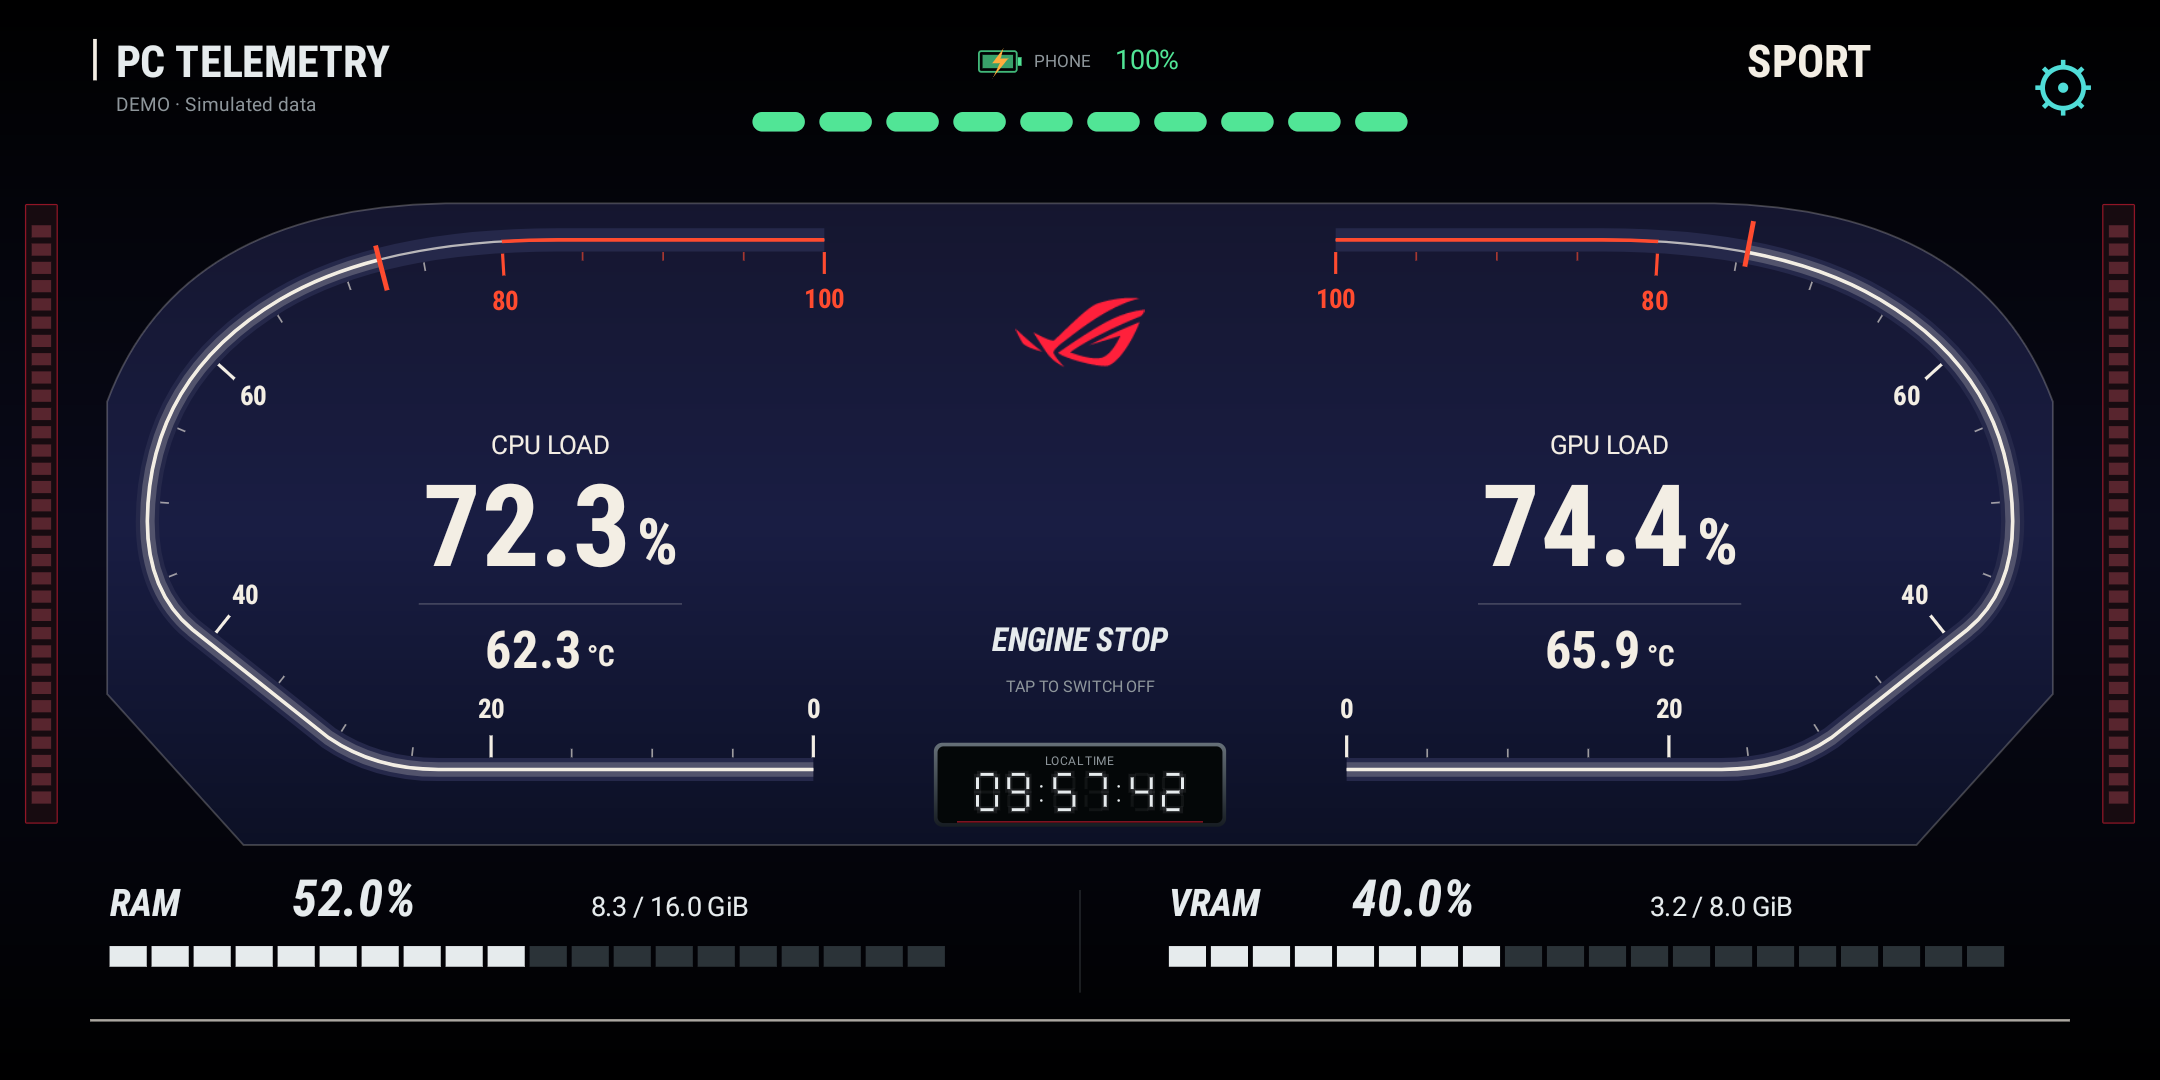
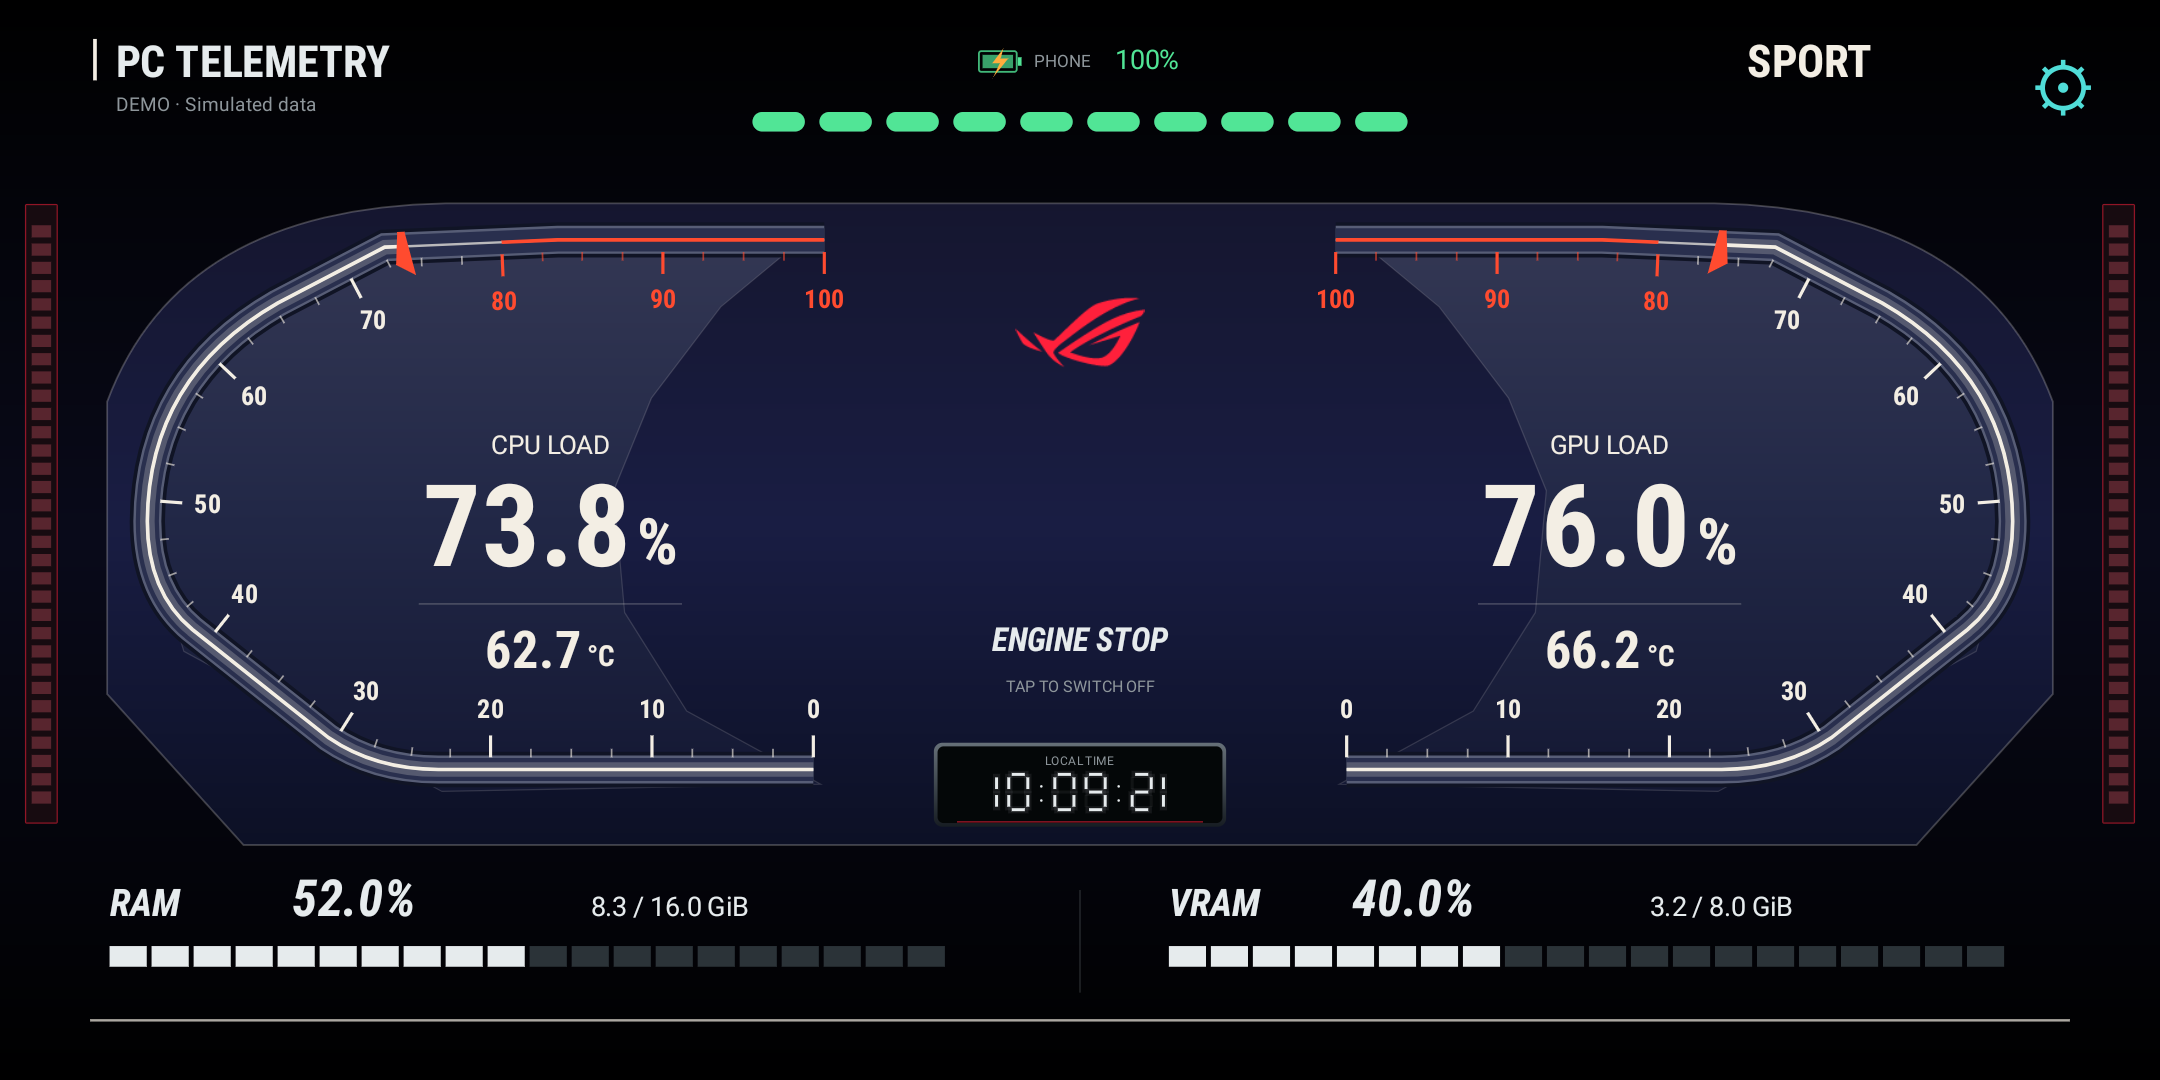
Refine STO and G82 inspired SPORT scales

diff --git a/android/app/src/main/kotlin/com/pctelemetry/dashboard/SportPresets.kt b/android/app/src/main/kotlin/com/pctelemetry/dashboard/SportPresets.kt
@@ -10,6 +10,7 @@ import androidx.compose.ui.geometry.Size
 import androidx.compose.ui.graphics.*
 import androidx.compose.ui.graphics.drawscope.DrawScope
 import androidx.compose.ui.graphics.drawscope.Stroke
+import androidx.compose.ui.graphics.drawscope.clipPath
 import androidx.compose.ui.res.painterResource
 import kotlin.math.cos
 import kotlin.math.sin
@@ -84,25 +85,43 @@ private fun DrawScope.apexArc(inset: Float, start: Float, sweep: Float, color: C
 }
 
 private fun DrawScope.apexBackdrop(paint: Paint, detail: Paint, cpu: SportReadingPosition, gpu: SportReadingPosition) {
-    apexArc(-15f, ApexStart, ApexSweep, StoWhite.copy(alpha = .44f), 1.4f)
-    apexArc(17f, ApexStart, ApexSweep, StoWhite.copy(alpha = .70f), 1.8f)
-    apexArc(17f, ApexStart + ApexSweep * .8f, ApexSweep * .2f, StoRed, 2.4f)
-    for (index in 0 until 60) {
-        val start = ApexStart + index * ApexSweep / 60f
-        val redZone = index >= 48
-        apexArc(0f, start, ApexSweep / 60f - .32f,
-            if (redZone) Color(0xFF44110E) else Color(0xFF1C1C22), 23f)
+    val hood = linePath(listOf(Offset(87f, 523f), Offset(140f, 383f), Offset(324f, 245f),
+        Offset(555f, 181f), Offset(1219f, 181f), Offset(1450f, 245f), Offset(1634f, 383f),
+        Offset(1687f, 523f), Offset(1640f, 701f), Offset(134f, 701f)), closed = true)
+    drawPath(hood, Brush.verticalGradient(listOf(Color(0xFF17191F), Color.Black, Color(0xFF101217)), 181f, 701f))
+    drawPath(hood, Color(0xFF282C33), style = Stroke(2f))
+    apexArc(6f, ApexStart, ApexSweep, Color(0xFF111318), 46f)
+    apexArc(6f, ApexStart + ApexSweep * .8f, ApexSweep * .2f, Color(0xFF250B0A), 46f)
+    apexArc(-18f, ApexStart, ApexSweep, StoWhite.copy(alpha = .50f), 1.5f)
+    // The inner keyline drops under each major numeral, separate from the outer scale ticks.
+    val innerEdge = (0..100).map { index ->
+        val distanceToTick = minOf(index % 10, 10 - index % 10)
+        val notch = when (distanceToTick) { 0, 1 -> 10f; 2 -> 4f; else -> 0f }
+        apexPoint(ApexStart + ApexSweep * index / 100f, 40f + notch)
+    }
+    drawPath(linePath(innerEdge), StoWhite.copy(alpha = .77f), style = Stroke(1.7f))
+    drawPath(linePath(innerEdge.drop(80)), StoRed, style = Stroke(1.9f))
+    for (row in 0..6) for (index in 1..179) {
+        val fraction = (index + (row % 2) * .5f) / 180f
+        val color = if (fraction >= .8f) StoRed else StoWhite
+        drawCircle(color.copy(alpha = if (fraction >= .8f) .32f else .18f),
+            1.05f, apexPoint(ApexStart + ApexSweep * fraction, -9f + row * 5.5f))
     }
     for (tick in 0..50) {
         val angle = ApexStart + tick * ApexSweep / 50
         val major = tick % 5 == 0
         val color = if (tick >= 40) StoRed else StoWhite
         drawLine(color.copy(alpha = if (major) 1f else .58f),
-            apexPoint(angle, -16f), apexPoint(angle, if (major) -5f else -10f),
+            apexPoint(angle, -20f), apexPoint(angle, if (major) -9f else -15f),
             if (major) 2.8f else 1.2f, cap = StrokeCap.Butt)
         if (major) {
-            val p = apexPoint(angle, 55f)
+            val p = apexPoint(angle, 32f)
+            drawPath(linePath(listOf(p + Offset(-21f, -14f), p + Offset(21f, -14f),
+                p + Offset(24f, 12f), p + Offset(-24f, 12f)), closed = true), Color(0xFF08090C))
+            paint.style = Paint.Style.STROKE
+            paint.strokeWidth = 1.25f
             label(paint, (tick * 2).toString(), p.x, p.y + 8f, 26f, color, true)
+            paint.style = Paint.Style.FILL
         }
     }
     val lowerBand = linePath(listOf(Offset(108f, 697f), Offset(252f, 661f), Offset(688f, 661f),
@@ -115,9 +134,10 @@ private fun DrawScope.apexBackdrop(paint: Paint, detail: Paint, cpu: SportReadin
     label(detail, "GPU TEMP", gpu.temperatureX, 560f, 18f, StoWhite, true)
 }
 
-private fun linePath(points: List<Offset>) = Path().apply {
+private fun linePath(points: List<Offset>, closed: Boolean = false) = Path().apply {
     moveTo(points.first().x, points.first().y)
     points.drop(1).forEach { lineTo(it.x, it.y) }
+    if (closed) close()
 }
 
 private fun wingPath(mirror: Boolean): Path {
@@ -128,8 +148,9 @@ private fun wingPath(mirror: Boolean): Path {
         quadraticTo(x(308f), 632f, x(270f), 606f)
         lineTo(x(158f), 517f)
         quadraticTo(x(121f), 486f, x(121f), 428f)
-        quadraticTo(x(122f), 310f, x(230f), 246f)
-        quadraticTo(x(313f), 197f, x(458f), 197f)
+        quadraticTo(x(122f), 310f, x(228f), 249f)
+        lineTo(x(316f), 203f)
+        lineTo(x(458f), 197f)
         lineTo(x(677f), 197f)
     }
 }
@@ -145,6 +166,16 @@ private fun DrawScope.wingBackdrop(paint: Paint, detail: Paint, cpu: SportReadin
     }
     drawPath(outer, Brush.verticalGradient(listOf(Color(0xFF15162F), Color(0xFF191D43), Color(0xFF0C1025)), 167f, 694f))
     drawPath(outer, WingWhite.copy(alpha = .24f), style = Stroke(1.5f, join = StrokeJoin.Miter))
+    for (mirror in listOf(false, true)) {
+        fun edge(x: Float, y: Float) = Offset(if (mirror) WIDTH - x else x, y)
+        val facet = linePath(listOf(edge(114f, 412f), edge(184f, 279f), edge(318f, 198f),
+            edge(673f, 185f), edge(592f, 252f), edge(535f, 327f), edge(504f, 403f),
+            edge(513f, 503f), edge(564f, 584f), edge(674f, 644f), edge(363f, 650f), edge(151f, 535f)), closed = true)
+        clipPath(outer) {
+            drawPath(facet, Brush.verticalGradient(listOf(Color(0xFF343854), Color(0xFF222847), Color(0xFF141833)), 185f, 650f))
+            drawPath(facet, WingWhite.copy(alpha = .15f), style = Stroke(1f))
+        }
+    }
     wingScale(paint, LeftWing, false)
     wingScale(paint, RightWing, true)
     label(detail, "CPU LOAD", cpu.x, 373f, 21f, WingWhite, true)
@@ -155,22 +186,24 @@ private fun DrawScope.wingBackdrop(paint: Paint, detail: Paint, cpu: SportReadin
 }
 
 private fun DrawScope.wingScale(paint: Paint, measure: PathMeasure, mirror: Boolean) {
-    drawMeasuredWing(measure, 0f, 100f, Color(0xFF25284A), 19f)
+    drawMeasuredWing(measure, 0f, 100f, Color(0xFF101425), 29f)
+    drawMeasuredWing(measure, 0f, 100f, Color(0xFF575D76), 23f)
+    drawMeasuredWing(measure, 0f, 100f, Color(0xFF292F4E), 19f)
     drawMeasuredWing(measure, 0f, 100f, WingWhite.copy(alpha = .72f), 2f)
     drawMeasuredWing(measure, 80f, 100f, WingRed, 3f)
-    for (tick in 0..20) {
-        val fraction = tick / 20f
+    for (tick in 0..40) {
+        val fraction = tick / 40f
         val distance = measure.length * fraction
         val pos = measure.getPosition(distance)
         val tangent = measure.getTangent(distance)
         val inward = if (mirror) Offset(tangent.y, -tangent.x) else Offset(-tangent.y, tangent.x)
         val major = tick % 4 == 0
-        val color = if (tick >= 16) WingRed else WingWhite
+        val color = if (tick >= 32) WingRed else WingWhite
         drawLine(color.copy(alpha = if (major) 1f else .62f), pos + inward * 10f,
             pos + inward * (if (major) 28f else 17f), if (major) 2.6f else 1.4f, cap = StrokeCap.Butt)
         if (major) {
             val marker = pos + inward * 49f
-            label(paint, (tick * 5).toString(), marker.x, marker.y + 7f, 22f, color, true)
+            label(paint, (tick * 5 / 2).toString(), marker.x, marker.y + 7f, 21f, color, true)
         }
     }
 }
@@ -186,15 +219,13 @@ internal fun DrawScope.sportPresetLoad(preset: SportPreset, cpu: Float?, gpu: Fl
     if (preset == SportPreset.APEX) {
         gpu?.coerceIn(0f, 100f)?.let { value ->
             val sweep = value * ApexSweep / 100f
-            for (index in 0 until 60) {
-                val start = index * ApexSweep / 60f
-                val length = (sweep - start).coerceIn(0f, ApexSweep / 60f - .32f)
-                if (length <= 0f) break
-                apexArc(0f, ApexStart + start, length,
-                    if (index >= 48) StoRed.copy(alpha = .63f) else StoWhite.copy(alpha = .30f), 19f)
-            }
+            val normal = minOf(sweep, ApexSweep * .8f)
+            if (normal > 0f) apexArc(5f, ApexStart, normal, StoWhite.copy(alpha = .15f), 39f)
+            if (sweep > normal) apexArc(5f, ApexStart + normal, sweep - normal, StoRed.copy(alpha = .30f), 39f)
             val angle = ApexStart + sweep
-            drawLine(StoRed, apexPoint(angle, -16f), apexPoint(angle, 23f), 5f, cap = StrokeCap.Butt)
+            val cursor = linePath(listOf(apexPoint(angle - .32f, -19f), apexPoint(angle + .32f, -19f),
+                apexPoint(angle + .16f, 12f), apexPoint(angle, 18f), apexPoint(angle - .16f, 12f)), closed = true)
+            drawPath(cursor, StoRed)
         }
     } else {
         for ((measure, sample) in listOf(LeftWing to cpu, RightWing to gpu)) {
@@ -206,7 +237,9 @@ internal fun DrawScope.sportPresetLoad(preset: SportPreset, cpu: Float?, gpu: Fl
             val point = measure.getPosition(distance)
             val tangent = measure.getTangent(distance)
             val normal = Offset(-tangent.y, tangent.x)
-            drawLine(WingRed, point - normal * 12f, point + normal * 26f, 4f, cap = StrokeCap.Butt)
+            val inward = if (measure === LeftWing) normal else -normal
+            drawPath(linePath(listOf(point - inward * 12f - tangent * 3f, point - inward * 12f + tangent * 3f,
+                point + inward * 24f + tangent * 11f, point + inward * 15f - tangent * 5f), closed = true), WingRed)
         }
     }
 }
